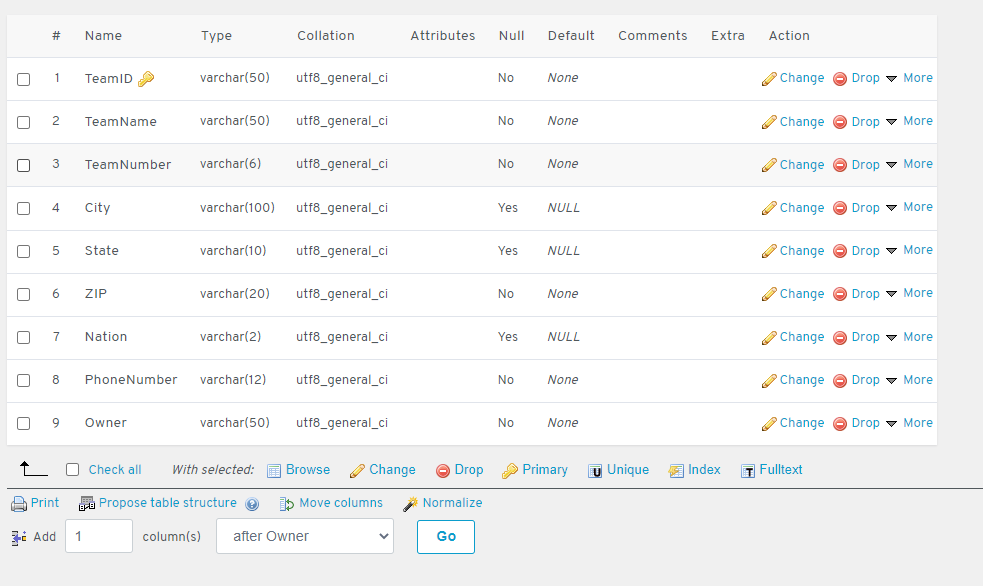
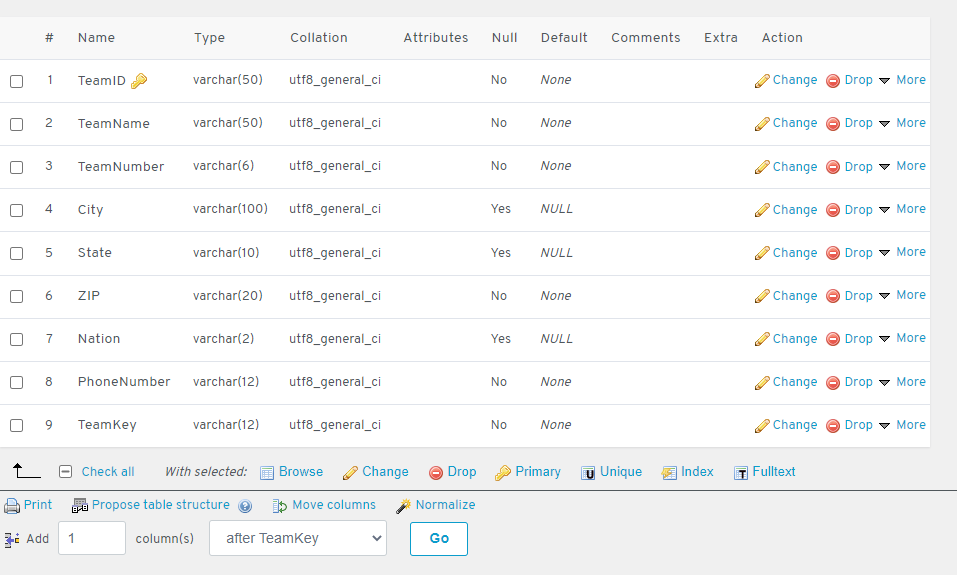
Updated table for Teams and fixed new team/user functions

diff --git a/php/config.php b/php/config.php
@@ -133,7 +133,7 @@
         mail($emailTo,$emailSubject,$message,$emailHeaders);
     }
 
-    function newUser($FirstName,$LastName,$Email,$ContactNumber,$Password){
+    function newUser($FirstName,$LastName,$Email,$Password,$Team,$Role){
         if(strlen($FirstName) < 1 || $FirstName == null){
             $strErrorMessage = $strErrorMessage . 'First Name must be passed to web service | ';
             $blnError = true;
@@ -146,15 +146,9 @@
             $strErrorMessage = $strErrorMessage . 'Email must be passed to web service | ';
             $blnError = true;
         }
-        if(strlen($Phne) < 10 || $ContactNumber == null || isValidContactNumber($ContactNumber) == false){
-            $strErrorMessage = $strErrorMessage . 'Team Contact Number must be passed to web service with area code | ';
-            $blnError = true;
-        } else {
-            $ContactNumber = normalizeContactNumber($ContactNumber);
-        }
         //do I do the password check in the same way or there a safer way to keep it more private with php stuff?
         global $conScouting;
-        $strQuery = "INSERT INTO tblUsers VALUES (?,?,?,?,?,SYSDATE(),'NEW')";
+        $strQuery = "INSERT INTO tblUsers VALUES (?,?,?,?,?,?";
       	// Check Connection
         if ($conScouting->connect_errno) {
             $blnError = "true";
@@ -175,7 +169,7 @@
 		 $statScouting = $conScouting->prepare($strQuery);
 
 		 // Bind Parameters
-		 $statScouting->bind_param('sssss', $FirstName, $LastName, $Email, $ContactNumber, $Password);
+		 $statScouting->bind_param('ssssss', $Email, $FirstName, $LastName, $Password, $Team, $Role);
          if($statScouting->execute()){
             sendVerificationEmail($Email);
             return '{"Outcome":"New User Created"}';
@@ -189,12 +183,12 @@
          $statScouting->close();
     }
 
-    function newTeam($TeamName,$TeamNumber,$StreetAddress,$ZIP,$State,$ContactNumber,$FirstName,$LastName,$Email,$Phone,$Password){
+    function newTeam($TeamName,$TeamNumber,$City,$ZIP,$State,$Nation,$ContactNumber,$FirstName,$LastName,$Email,$Password){
         $strErrorMessage = '';
         $blnError = false;
         $TeamName = trim($TeamName);
         $TeamNumber= trim($TeamNumber);
-        $StreetAddress = trim($StreetAdress);
+        $City = trim($City);
         $ZIP = trim($ZIP);
         $State = trim($State);
         $ContactNumber = trim($ContactNumber);
@@ -209,8 +203,8 @@
             $strErrorMessage = $strErrorMessage . 'TeamNumber must be a numeric value passed to web service with four characters | ';
             $blnError = true;
         }
-        if(strlen($StreetAddress) < 3 || $StreetAddress == null){
-            $strErrorMessage = $strErrorMessage . 'Street Address must be passed to web service | ';
+        if(strlen($City) < 3 || $City == null){
+            $strErrorMessage = $strErrorMessage . 'City must be passed to web service | ';
             $blnError = true;
         }
         if(strlen($ZIP) > 10 || strlen($ZIP) < 5  || $ZIP == null ){
@@ -228,13 +222,6 @@
         } else {
             $ContactNumber = normalizeContactNumber($ContactNumber);
         }
-
-        //if(strlen($Phone) < 10 || $Phone == null || isValidContactNumber($Phone) == false){
-        //    $strErrorMessage = $strErrorMessage . 'OwnerPhone Number must be passed to web service with area code | ';
-        //    $blnError = true;
-        //} else {
-        //    $Phone = normalizeContactNumber($Phone);
-        //}
 
         if(strlen($FirstName) < 1 || $FirstName == null){
             $strErrorMessage = $strErrorMessage . 'First Name must be passed to web service | ';
@@ -254,8 +241,6 @@
         }
      
 
-        
-
         if($blnError == true){
             echo '{"Outcome":"Error:'.$strErrorMessage.'"}';
             return '{"Outcome":"Error:'.$strErrorMessage.'"}';
@@ -263,7 +248,7 @@
             global $conScouting;
             $strTeamID = guidv4();
             $strStatus = 'ACTIVE';
-            $strQuery = "INSERT INTO tblTeams VALUES (?,?,?,?,?,?,?,?,?,(SELECT TeamKey FROM tblTeamKeys WHERE TeamKey NOT IN (SELECT b.TeamKey FROM tblTeams b) LIMIT 1))";
+            $strQuery = "INSERT INTO tblTeams VALUES (?,?,?,?,?,?,?,?,(SELECT TeamKey FROM tblTeamKeys WHERE TeamKey NOT IN (SELECT b.TeamKey FROM tblTeams b) LIMIT 1))";
               // Check Connection
             try {
                 if ($conScouting->connect_errno) {
@@ -285,17 +270,17 @@
                  $statScouting = $conScouting->prepare($strQuery);
 
                  // Bind Parameters
-                 $statScouting->bind_param('sssssssss', $TeamName, $TeamNumber, $StreetAddress, $ZIP, $State, $ContactNumber, $FirstName, $LastName, $Email, $strStatus, $APIKey);
+                 $statScouting->bind_param('ssssssss', $strTeamID, $TeamName, $TeamNumber, $City, $State, $ZIP, $Nation, $ContactNumber);
                  
                  if($statScouting->execute()){
-                    if(newUser($Owner,$FirstName,$LastName,$Phone,$TeamNumber,$Password) == '{"Outcome":"New User Created"}'){
-                        return '{"Outcome":"'.$TeamNumber.'"}';
+                    if(newUser($FirstName,$LastName,$Owner,$Password,$TeamNumber,'C1692D0B-A418-47E2-BABC-A6BAF94384E4') == '{"Outcome":"New User Created"}'){
+                        return '{"Outcome":"'.$strTeamID.'"}';
                     } else {
-                        return '{"Outcome":"Error"}';
+                        return '{"Outcome":"Error Creating Team"}';
                     }
                     
                  } else {
-                    return '{"Outcome":"Error"}';
+                    return '{"Outcome":"Error Creating Team"}';
                  }
         
                  // $result = $statScouting->get_result();
@@ -310,7 +295,4 @@
         
         
     }
-
-    newTeam('','','','','','','','','','');
-
 ?>
